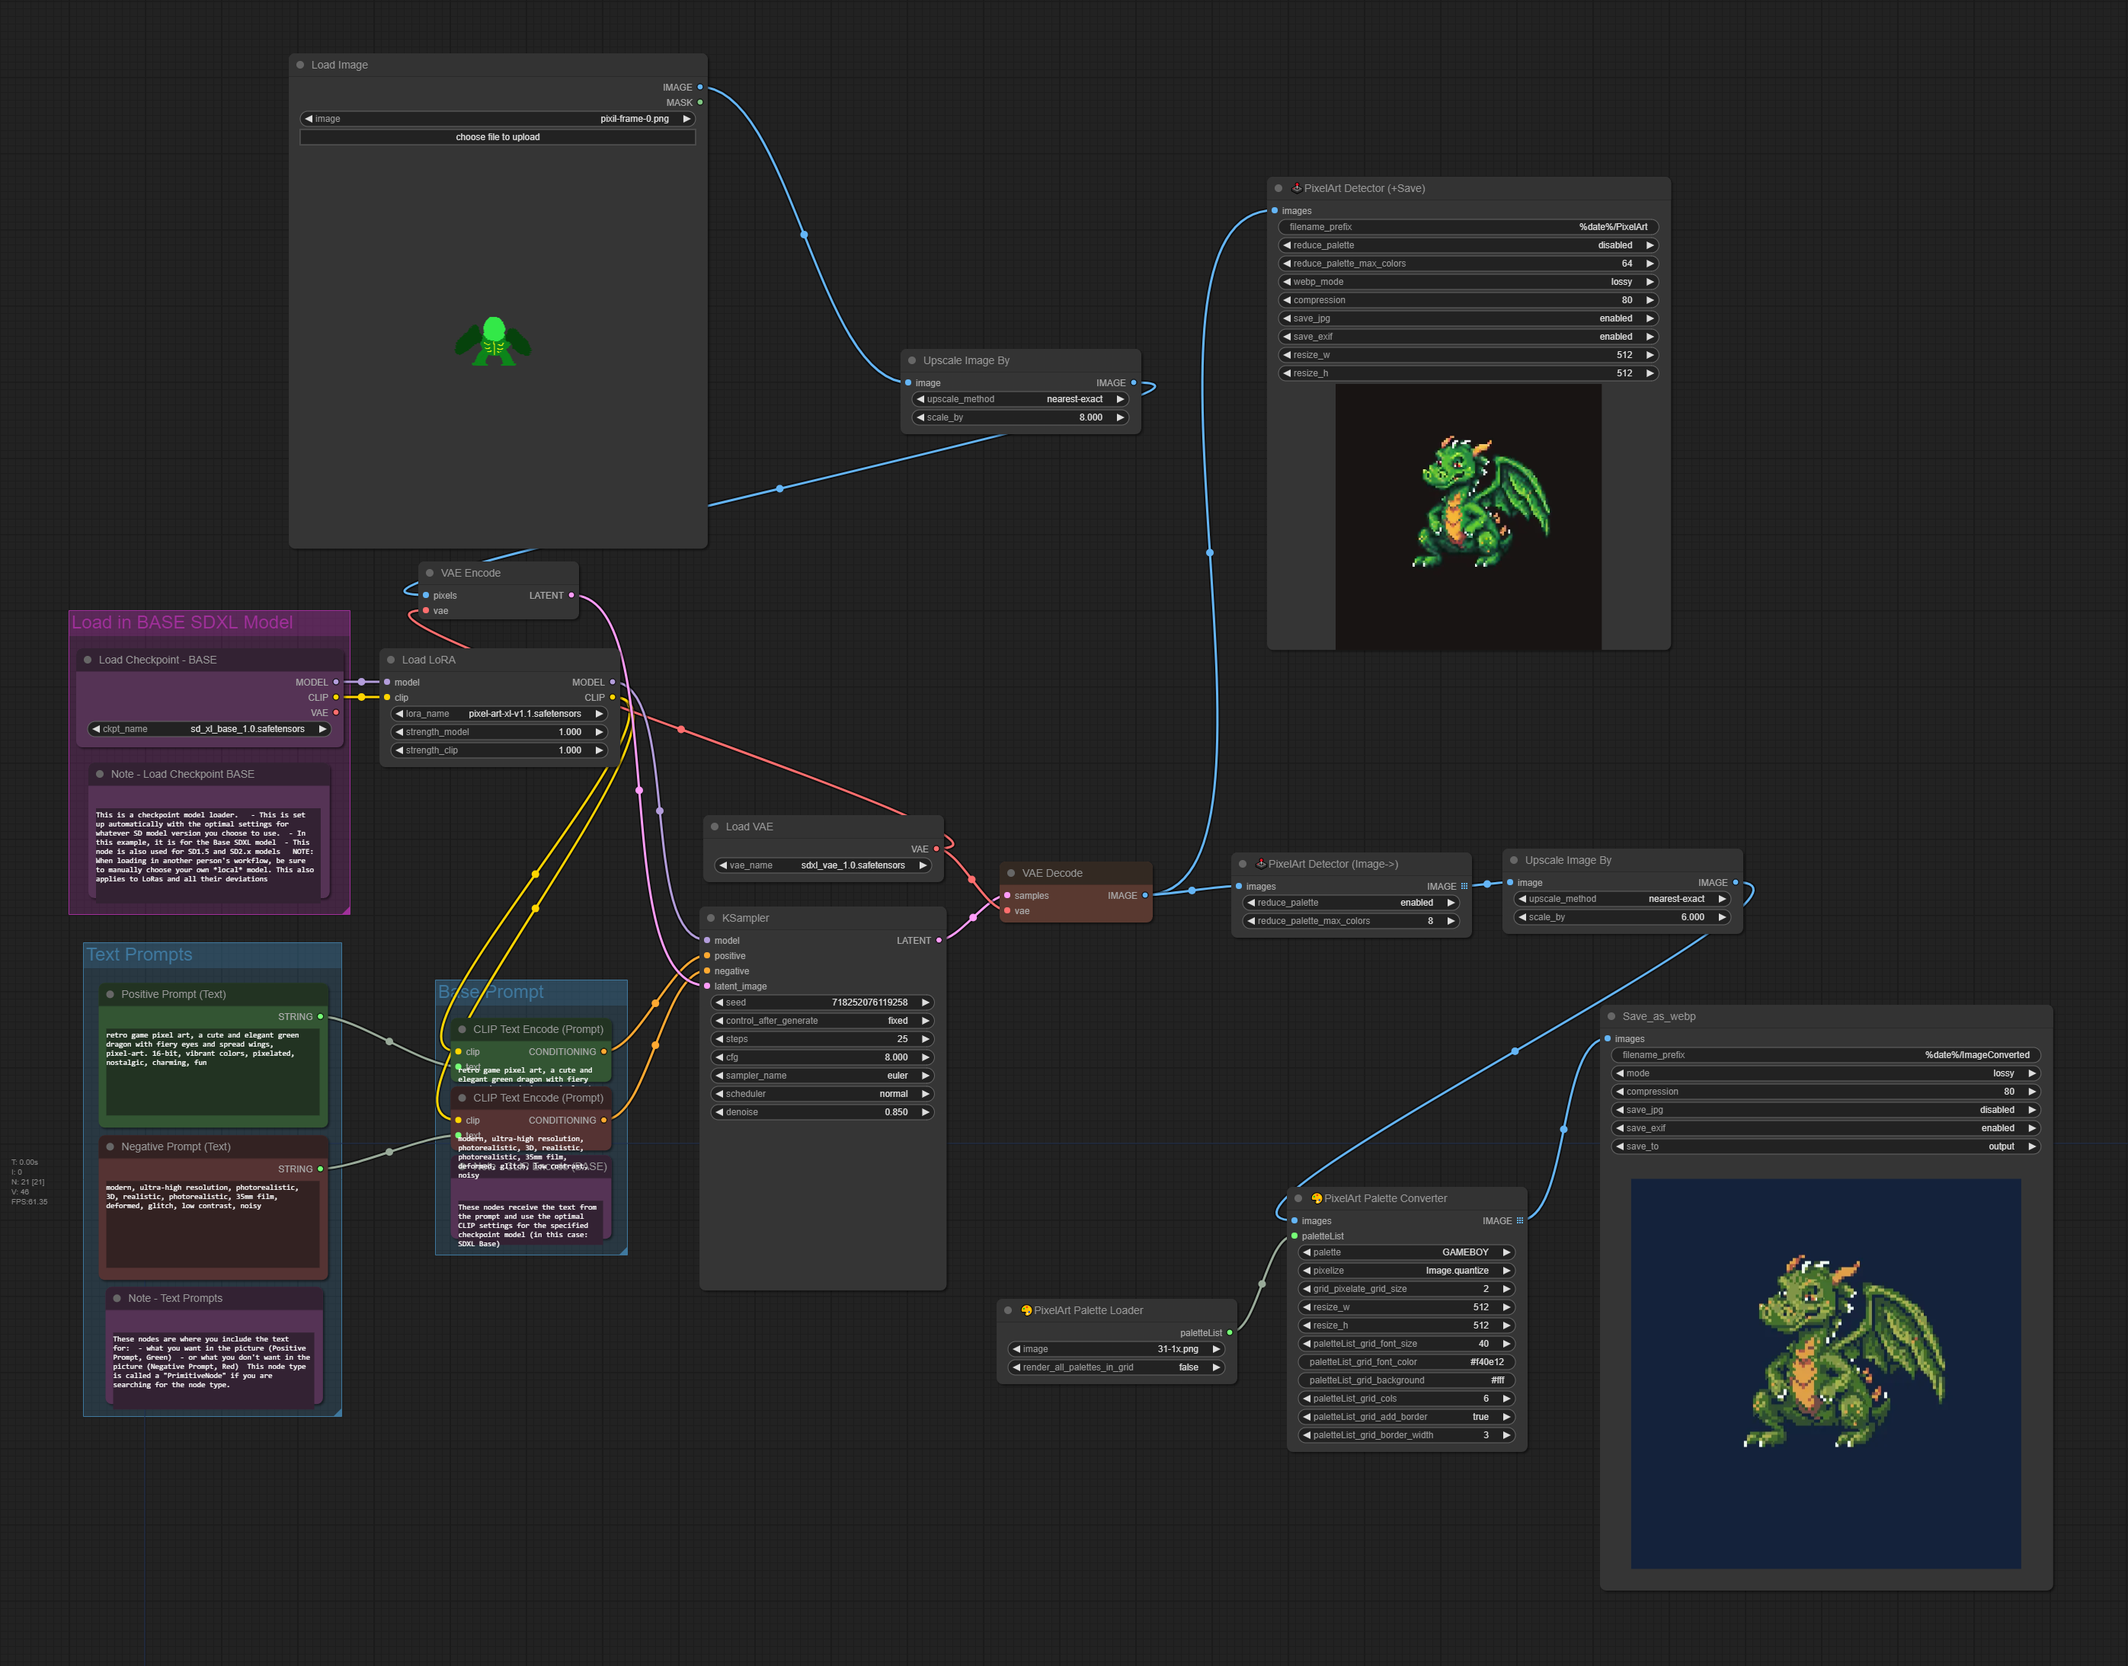
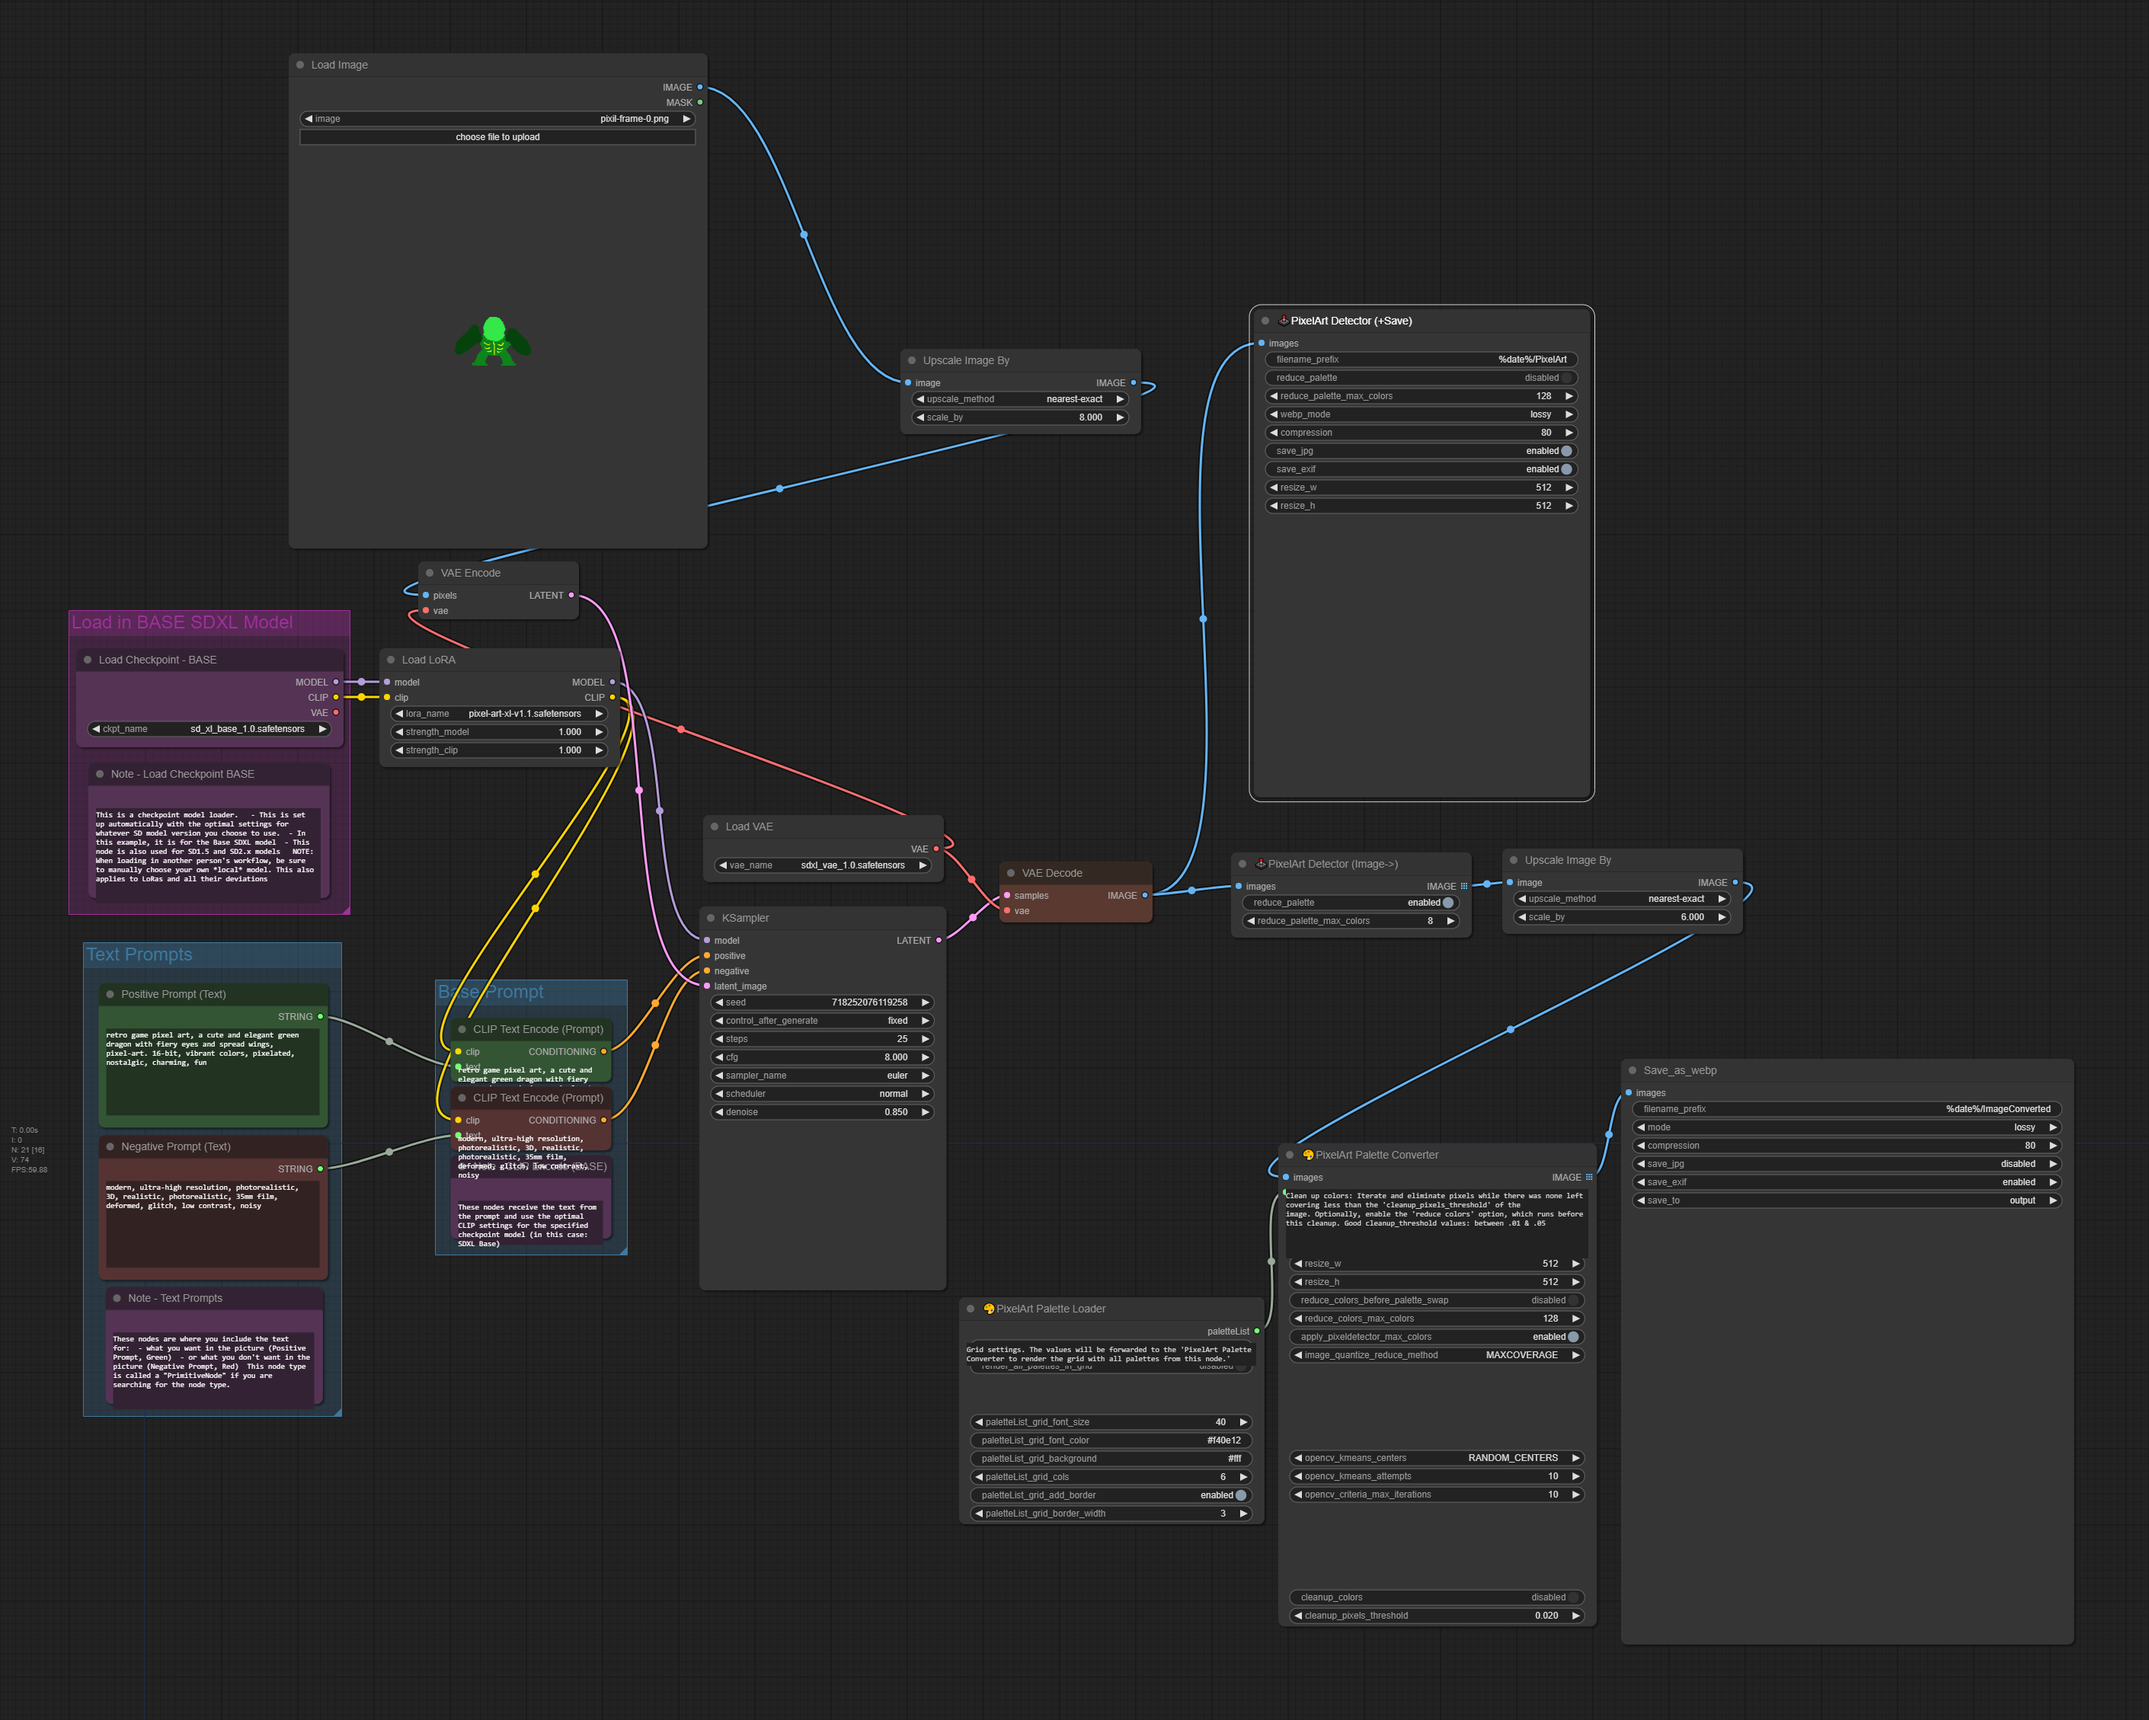
added a clean up example , updated img2img workflow

diff --git a/README.md b/README.md
@@ -19,6 +19,8 @@ Save a picture as Webp (+optional JPEG) file in Comfy + Workflow loading.
 * moved out the grid settings from the Palette Converter to the Palette Loader
 * and many other small additions
 
+![](./frames.gif)
+
 **Update 1.2**: PixelArtDetectorConverter will upscale the image BEFORE the pixelization/quantization process if the input image is smaller than the resize sizes. If bigger, it will downscale after quantization.
 
 **Update 1.1**: changed the default workflow.json to use the default "Save Image" node. workflow_webp.json will be using the webp node.
